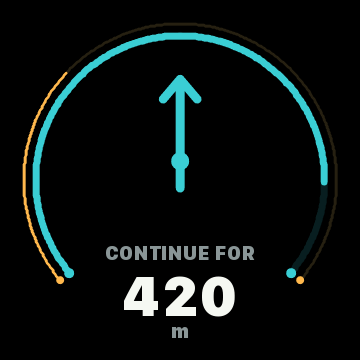
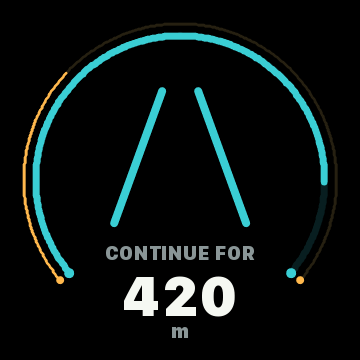
Other: Draw continue lane indicator

Changed region(s): [[0.3056, 0.1833, 0.7028, 0.6417]]

diff --git a/src/App.cpp b/src/App.cpp
@@ -159,6 +159,17 @@ void drawArrowHead(Display& display, int tipX, int tipY, float degrees, int leng
     display.line(tipX, tipY, wingBX, wingBY, color, thickness);
 }
 
+void drawContinueLane(Display& display, int cx, int cy, Color color) {
+    const int topY = cy - 70;
+    const int bottomY = cy + 62;
+    const int topHalfWidth = 18;
+    const int bottomHalfWidth = 66;
+    const int thickness = 8;
+
+    display.line(cx - bottomHalfWidth, bottomY, cx - topHalfWidth, topY, color, thickness);
+    display.line(cx + bottomHalfWidth, bottomY, cx + topHalfWidth, topY, color, thickness);
+}
+
 void drawTurnLeft(Display& display, int cx, int cy, Color color) {
     const int thickness = 9;
     const Color continuation{22, 46, 48};
@@ -358,6 +369,8 @@ void App::renderNavigation(Display& display) {
         drawTurnLeft(display, cx, cy - 36 + GraphicOffsetY, Palette::Cyan);
     } else if (_state.maneuver == Maneuver::UTurn) {
         drawUTurn(display, cx, cy - 52 + GraphicOffsetY, Palette::Cyan);
+    } else if (_state.maneuver == Maneuver::Continue) {
+        drawContinueLane(display, cx, cy - 34 + GraphicOffsetY, Palette::Cyan);
     } else {
         drawArrow(display, cx, cy - 34 + GraphicOffsetY, 82, maneuverAngle(_state.maneuver), Palette::Cyan);
     }